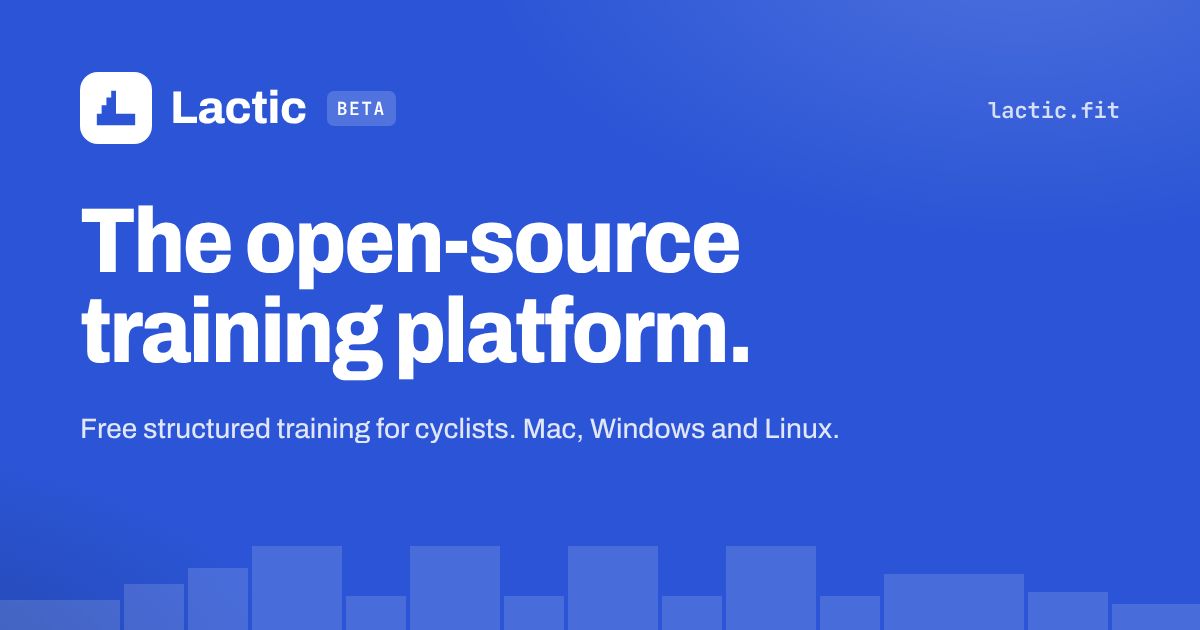
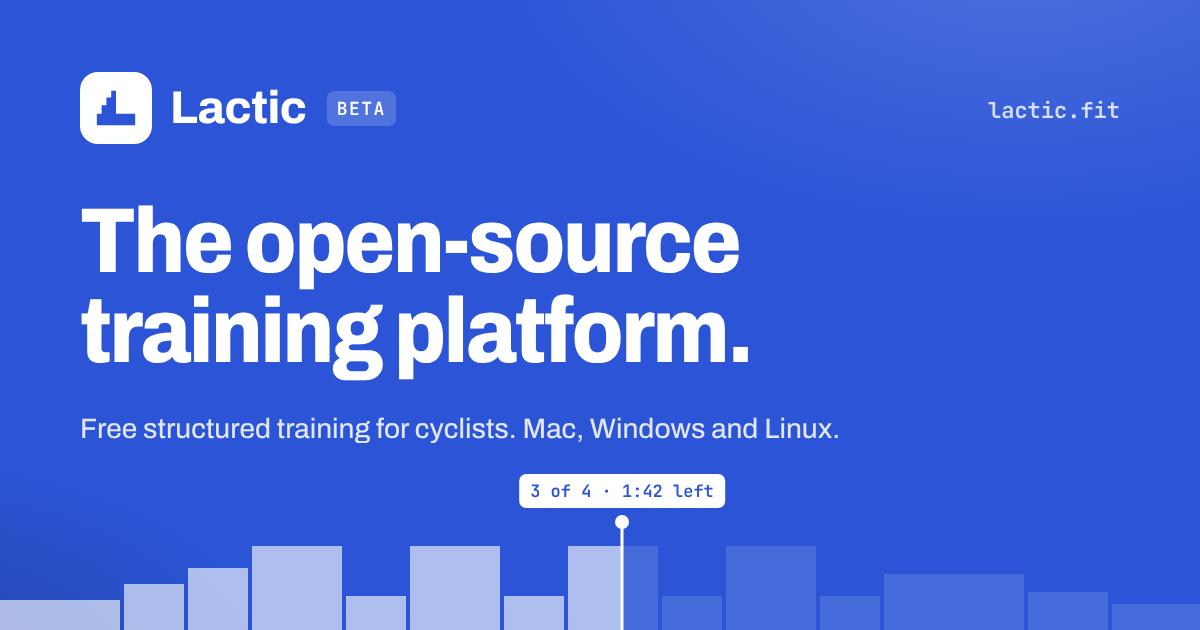
Show the workout in progress on the link preview card (#81)
Done intervals are filled in, the rest are faint, and a position marker
with '3 of 4 · 1:42 left' sits mid-interval, like the ride screen.

Claude-Session: https://claude.ai/code/session_01WrmVQUGH4ooEhBvfmmyZqL

Changed region(s): [[0.0, 0.754, 0.6167, 1.0], [0.4933, 0.6635, 0.5242, 0.6937]]

diff --git a/docs/og-card.html b/docs/og-card.html
@@ -12,16 +12,26 @@ h1{position:absolute;left:80px;top:196px;margin:0;font-size:92px;line-height:.98
 .sub{position:absolute;left:80px;top:410px;font-size:28px;line-height:1.35;color:rgba(255,255,255,.86);width:1040px;font-weight:450}
 .url{position:absolute;right:80px;top:96px;font:600 22px "JetBrains Mono",monospace;color:rgba(255,255,255,.8)}
 svg.profile{position:absolute;left:0;bottom:0}
+.now{position:absolute;bottom:122px;transform:translateX(-50%);font:600 17px "JetBrains Mono",monospace;color:#2b55d6;background:#fff;padding:6px 11px;border-radius:7px;white-space:nowrap}
 </style></head><body><div class="glow"></div>
 <div class="top"><div class="mark"><svg viewBox="0 0 24 24" width="46" height="46"><path d="M2 21V15H4.5V10.5H7V6.5H9.5V3H12V15H22V21Z" fill="#2b55d6"/></svg></div><span class="name">Lactic</span><span class="beta">Beta</span></div>
 <div class="url">lactic.fit</div>
 <h1>The open-source training platform.</h1>
 <div class="sub">Free structured training for cyclists. Mac, Windows and Linux.</div>
-<svg class="profile" width="1200" height="96" viewBox="0 0 1200 96" aria-hidden="true">
-<g fill="rgba(255,255,255,.14)">
-<rect x="0" y="66" width="120" height="30"/><rect x="124" y="50" width="60" height="46"/><rect x="188" y="34" width="60" height="62"/>
+<svg class="profile" width="1200" height="130" viewBox="0 0 1200 130" aria-hidden="true">
+<defs><clipPath id="done"><rect x="0" y="0" width="622" height="130"/></clipPath><clipPath id="todo"><rect x="622" y="0" width="578" height="130"/></clipPath></defs>
+<g transform="translate(0,34)">
+<g fill="rgba(255,255,255,.13)" clip-path="url(#todo)"><rect x="0" y="66" width="120" height="30"/><rect x="124" y="50" width="60" height="46"/><rect x="188" y="34" width="60" height="62"/>
 <rect x="252" y="12" width="90" height="84"/><rect x="346" y="62" width="60" height="34"/><rect x="410" y="12" width="90" height="84"/><rect x="504" y="62" width="60" height="34"/>
 <rect x="568" y="12" width="90" height="84"/><rect x="662" y="62" width="60" height="34"/><rect x="726" y="12" width="90" height="84"/><rect x="820" y="62" width="60" height="34"/>
-<rect x="884" y="40" width="140" height="56"/><rect x="1028" y="58" width="80" height="38"/><rect x="1112" y="70" width="88" height="26"/>
-</g></svg>
+<rect x="884" y="40" width="140" height="56"/><rect x="1028" y="58" width="80" height="38"/><rect x="1112" y="70" width="88" height="26"/></g>
+<g fill="rgba(255,255,255,.62)" clip-path="url(#done)"><rect x="0" y="66" width="120" height="30"/><rect x="124" y="50" width="60" height="46"/><rect x="188" y="34" width="60" height="62"/>
+<rect x="252" y="12" width="90" height="84"/><rect x="346" y="62" width="60" height="34"/><rect x="410" y="12" width="90" height="84"/><rect x="504" y="62" width="60" height="34"/>
+<rect x="568" y="12" width="90" height="84"/><rect x="662" y="62" width="60" height="34"/><rect x="726" y="12" width="90" height="84"/><rect x="820" y="62" width="60" height="34"/>
+<rect x="884" y="40" width="140" height="56"/><rect x="1028" y="58" width="80" height="38"/><rect x="1112" y="70" width="88" height="26"/></g>
+</g>
+<rect x="620.5" y="22" width="3" height="108" fill="#fff"/>
+<circle cx="622" cy="22" r="7" fill="#fff"/>
+</svg>
+<div class="now" style="left:622px">3 of 4 · 1:42 left</div>
 </body></html>
